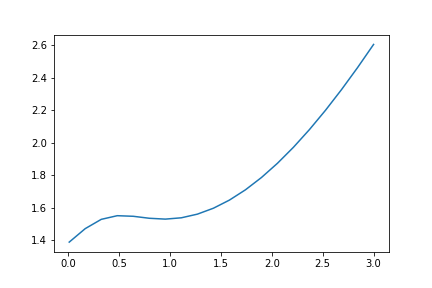
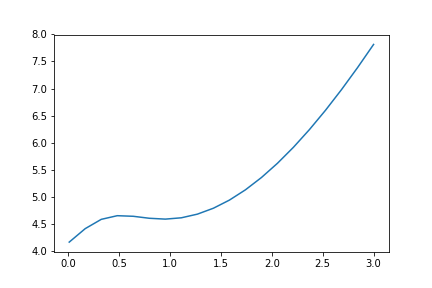
some variable names changed...

diff --git a/madEwald.py b/madEwald.py
@@ -205,8 +205,8 @@ def madelung(args):
     #atoms
     positonOfInterest = 0
     alpha = 0.0
-    cutoffs=[3] #list of cutoff values to loop 
-    alphas= np.linspace(0.01,3,20) #range(20,100,5) #[3,4,6] #list of alpha ewald splitting values to loop
+    cutoffs=[10] #list of cutoff values to loop 
+    alphas= np.linspace(0.01,1.5,7) #range(20,100,5) #[3,4,6] #list of alpha ewald splitting values to loop
     aCharge = 0 #charge of the anion
     cCharge = 0 #charge of the cation
     mc = 0.0 #for single madelung constant value
@@ -287,23 +287,23 @@ def madelung(args):
             #caulculate real space contributions qpe and spe
             
             print('Counting real space contribution...')
-            spe = RealConstant(atoms, alpha) #selfInteraction
+            E_self = RealConstant(atoms, alpha) #selfInteraction spe
             
-            qpe = RealSum(atoms, alpha, cutoff) #realSpaceSum
+            E_short = RealSum(atoms, alpha, cutoff) #realSpaceSum qpe
             
             print('Done!')
             #calculate reciprocal space contribution epe
             print('Counting reciprocal space contribution...')
-            epe = ResiprocalSum(atoms, 4, alpha)
+            E_long = ResiprocalSum(atoms, 4, alpha) #epe
             print('Done!')
             #Total Energy
-            tpe=(qpe/2.0+epe+spe)*minim #/2  #(-8.0) #(qpe-epe-spe)*minim 
+            total=(E_short/2.0+E_long+E_self)*minim #/2  #(-8.0) #(qpe-epe-spe)*minim 
             print('Results for the MC at alpha value: ', alpha)
-            print ('Self interaction:', spe)
-            print ('ERF: ', qpe)
-            print('Fourier: ', epe)
-            print('Total energy: ', tpe)
-            mc=tpe/numberOfMolecules/aCharge/cCharge
+            print ('Self interaction energy:', E_self)
+            print ('Short range interaction: ', E_short)
+            print('Long range interaction: ', E_long)
+            print('Total energy: ', total)
+            mc=total/numberOfMolecules/aCharge/cCharge
             print('Madelung constant: ', mc)
             
             """
@@ -314,8 +314,8 @@ def madelung(args):
             """
             MC.append(mc)
     plt.plot(alphas, MC)
-    plt.savefig('pics/'+args.input)
-    saveToFile(args.input,MC,alphas)
+    plt.savefig('pics/'+args.input+'cutoff'+str(cutoff))
+    saveToFile(args.input+'cutoff'+str(cutoff),MC,alphas)
     
     
 if __name__ == "__main__":
